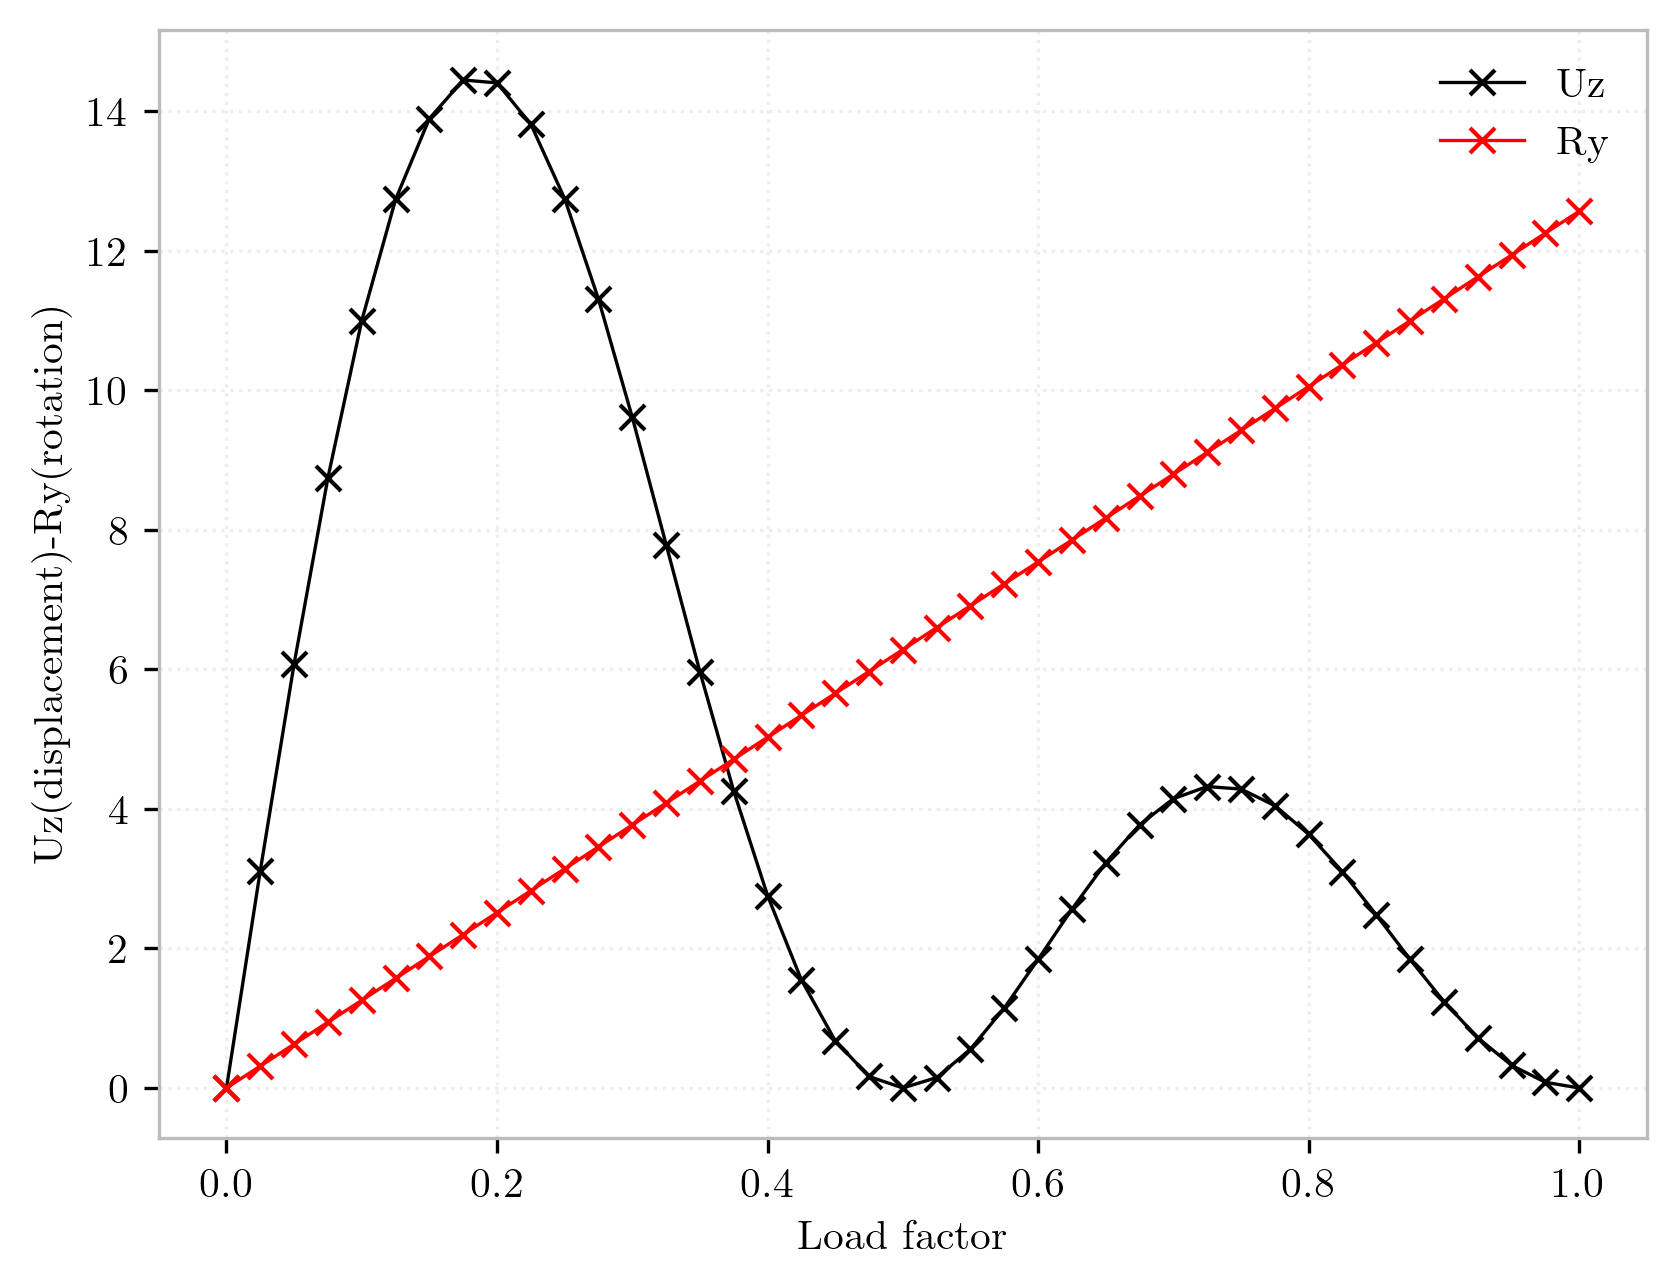
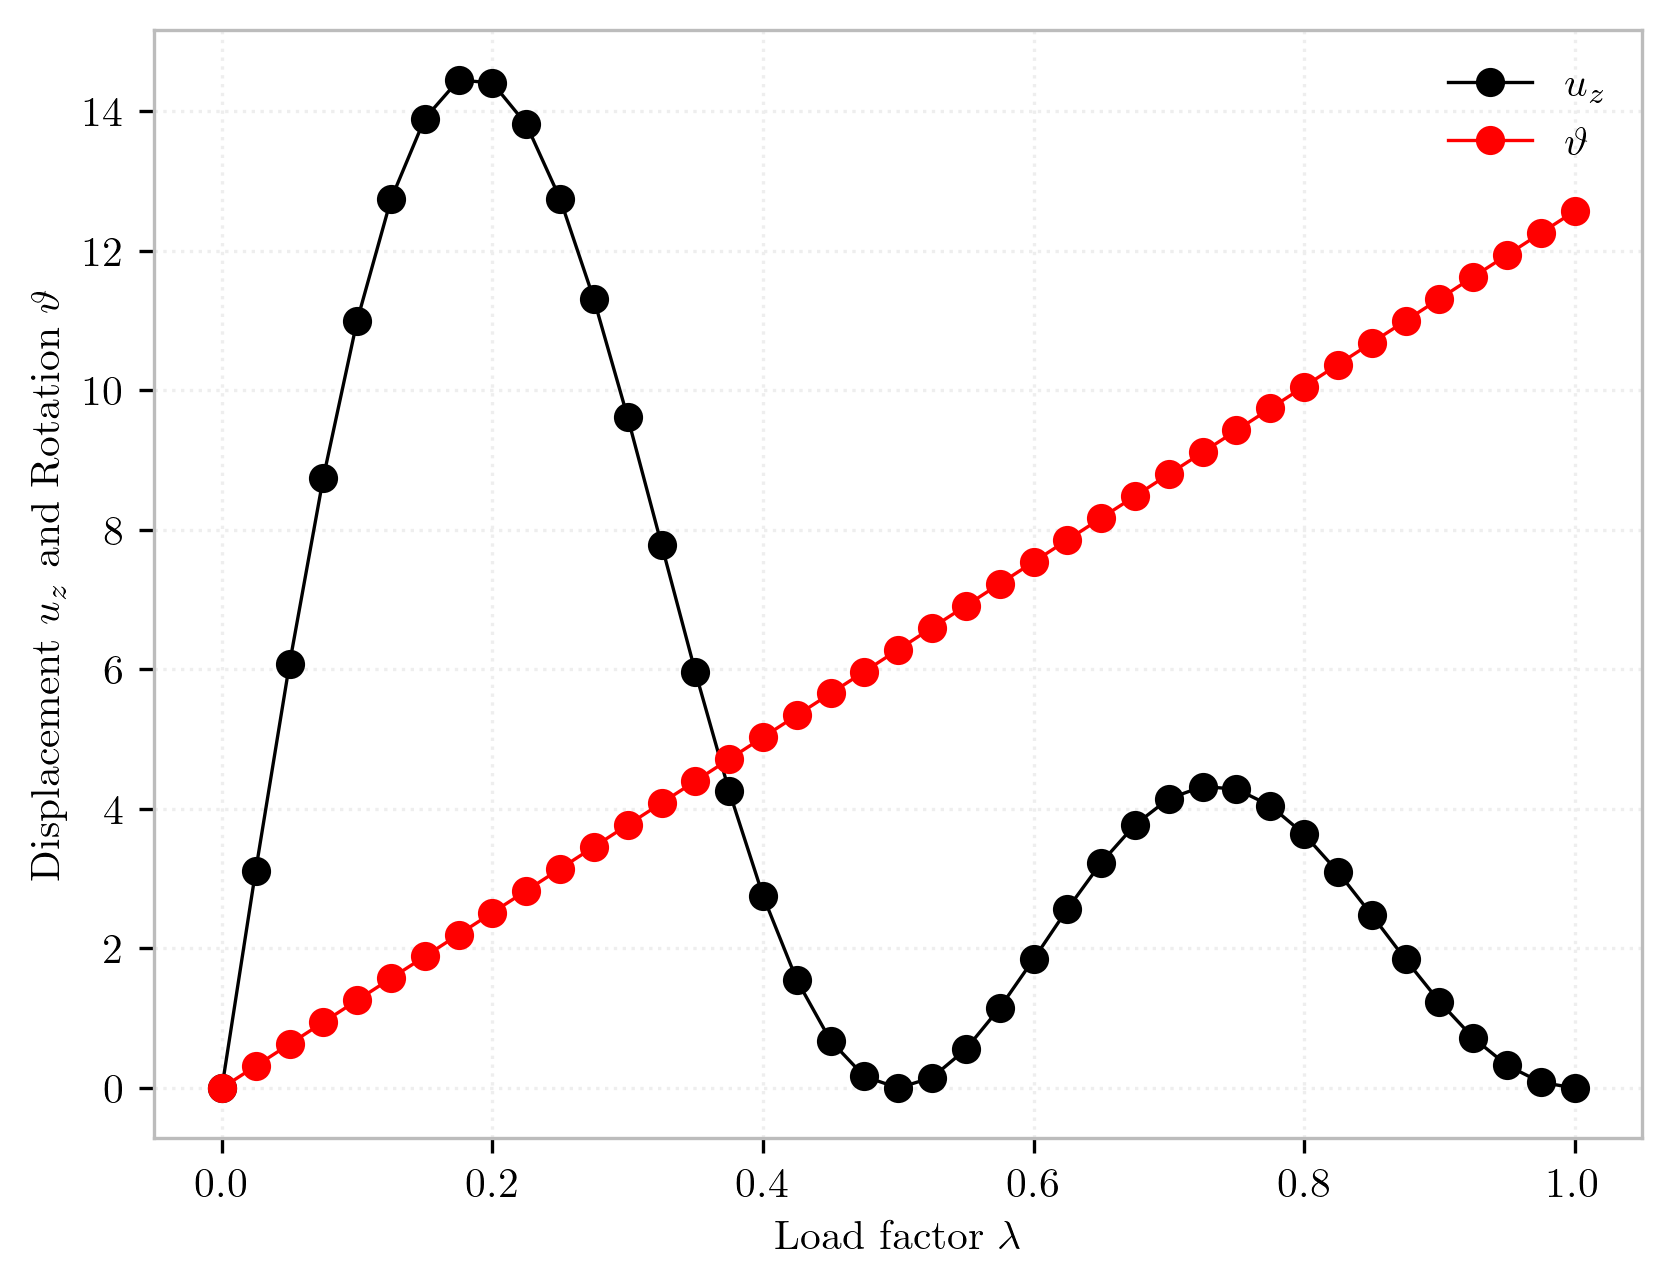
cmp - update shell roll up

diff --git a/content/en/examples/ShellCircle/circle.py b/content/en/examples/ShellCircle/circle.py
@@ -7,7 +7,7 @@ except:
     pass
 import math
 
-# model and section
+# Create a model
 ops = _ops.Model(ndm=3, ndf=6)
 E = 1e4
 h = 1.0
@@ -32,7 +32,7 @@ ele_id = 1
 for j in range(Ny):
     for i in range(Nx):
         nodes = (j*(Nx+1)+i+1, j*(Nx+1)+i+2, (j+1)*(Nx+1)+i+2, (j+1)*(Nx+1)+i+1)
-        ops.element('ASDShellQ4', ele_id, nodes, 1, '-corotational')
+        ops.element('ASDShellQ4', ele_id, nodes, 1, corotational=True)
         ele_id += 1
 
 # fix
@@ -48,8 +48,8 @@ for j in range(Ny):
     i = Nx-1
     n1 = j*(Nx+1)+i+2
     n2 = (j+1)*(Nx+1)+i+2
-    ops.load(n1, (0,0,0,0,-dM,0))
-    ops.load(n2, (0,0,0,0,-dM,0))
+    ops.load(n1, (0,0,0,0,-dM,0), pattern=1)
+    ops.load(n2, (0,0,0,0,-dM,0), pattern=1)
 
 # analysis
 duration = 1.0
@@ -91,12 +91,11 @@ for i in range(nsteps):
     Uz[i+1] =  ops.nodeDisp(CNode, 3)
     Ry[i+1] = -ops.nodeDisp(CNode, 5)
 
-ax.plot(time, Uz, '-xk', label='Uz')
-ax.plot(time, Ry, '-xr', label='Ry')
-ax.set_xlabel('Load factor')
-ax.set_ylabel('Uz(displacement)-Ry(rotation)')
+ax.plot(time, Uz, '-ok', label="$u_z$")
+ax.plot(time, Ry, '-or', label=r"$\vartheta$")
+ax.set_xlabel(r"Load factor $\lambda$")
+ax.set_ylabel(r"Displacement $u_z$ and Rotation $\vartheta$")
 ax.legend()
-ax.grid(True)
 
 # compute exact solution at Nrolls number of rotations
 ref_Uz = 0.0

diff --git a/content/en/examples/ShellCircle/index.md b/content/en/examples/ShellCircle/index.md
@@ -3,7 +3,8 @@ title: Shell undergoing finite rotations
 render: circle.glb
 thumbnail: img/examples/ShellCircle.png
 downloads:
-  Python: ["circle.py", "requirements.txt"]
+  Python: ["circle.py",  "requirements.txt"]
+  Tcl:    ["circle.tcl", "requirements.txt"]
 ---
 
 
